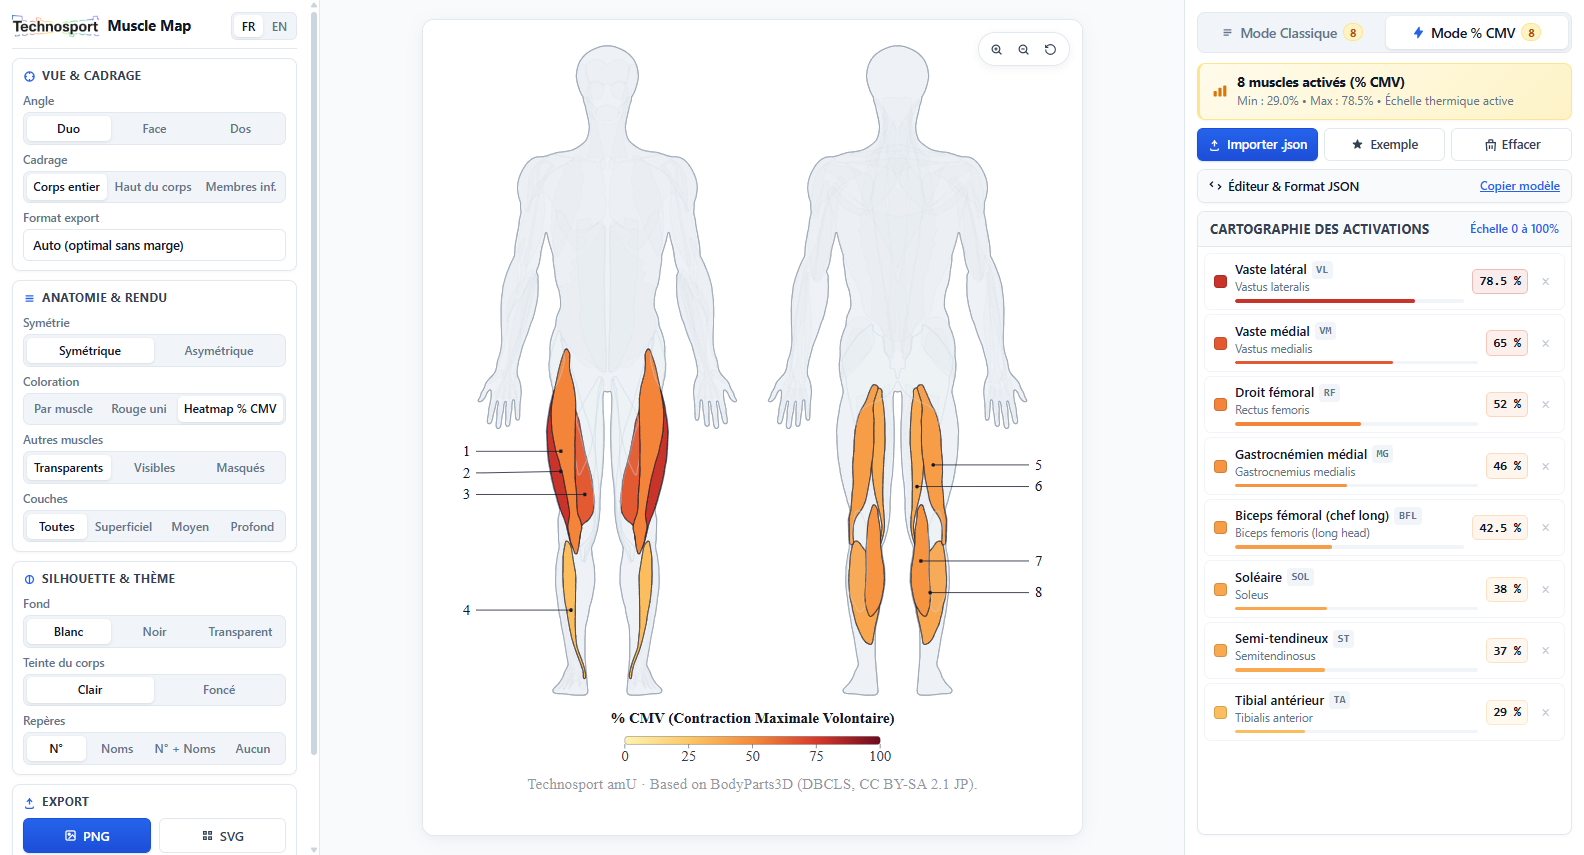
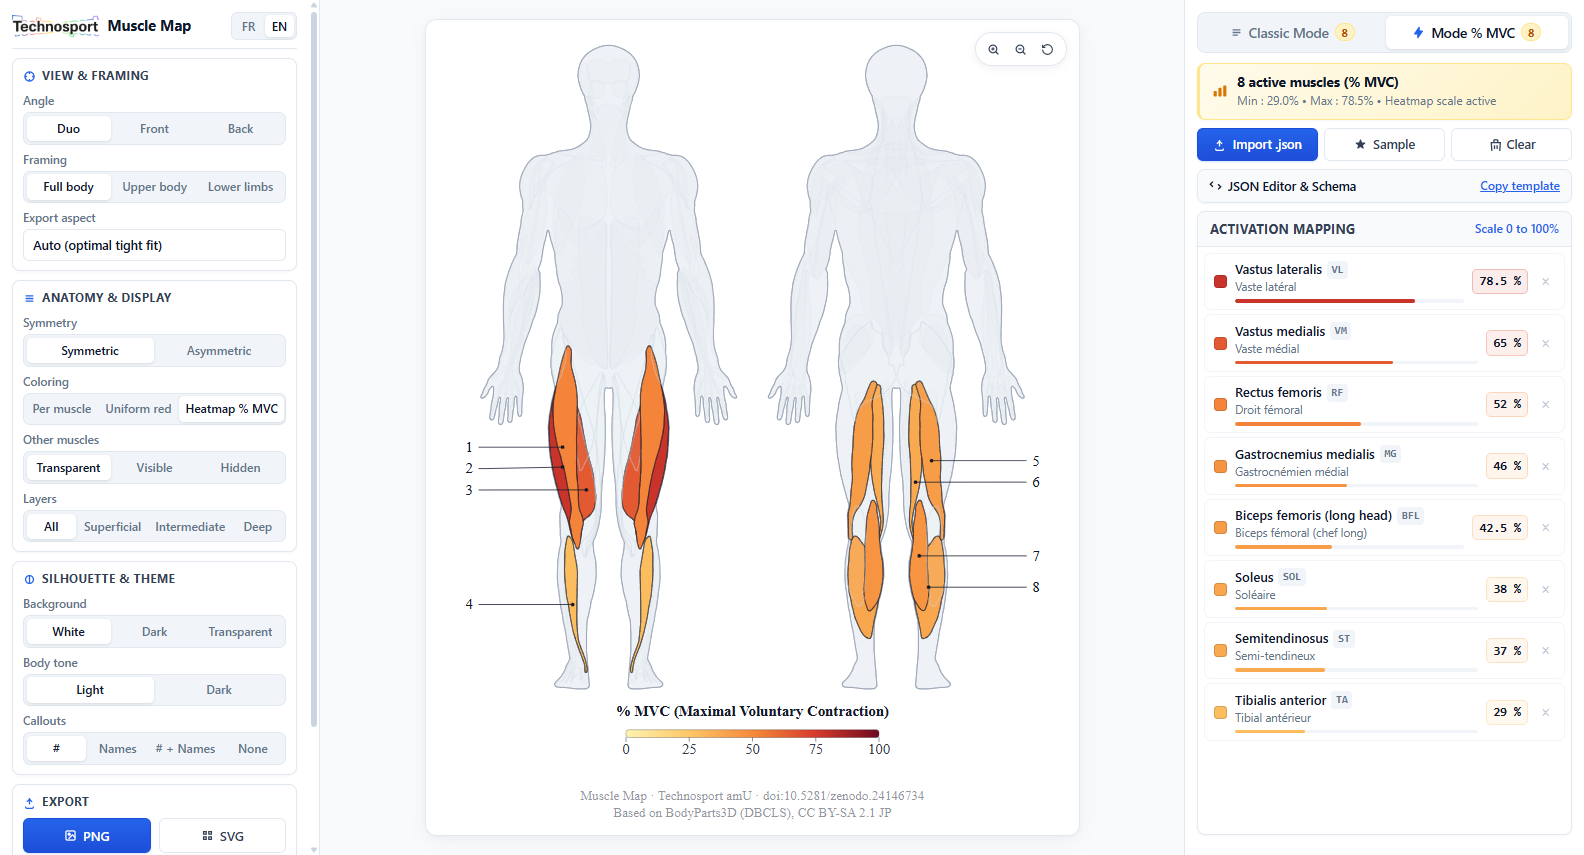
docs: streamline README, update citation info and regenerate screenshots in English

diff --git a/README.md b/README.md
@@ -23,10 +23,7 @@
 
 ### Offline / Local Usage
 1. Clone or download this repository.
-2. Double-click the standalone **`index.html`** file in any modern web browser (Chrome, Edge, Firefox, Safari).
-
-> [!NOTE]
-> The application is **100% standalone and monolithic (~1.5 MB)**: it runs completely offline with zero external dependencies, no CDN calls, no npm build step, and no local web server required.
+2. Double-click the standalone **`index.html`** file in any web browser.
 
 ---
 
@@ -39,22 +36,12 @@
 | Module / Feature | Description |
 | :--- | :--- |
 | **Protocol Mode (Classic)** | Interactive selection of 63 anatomical muscles, customizable color families or monochrome, and flexible visual callouts (Numbers, Names, or Numbers + Names). |
-| **Results Mode (% MVC Heatmap)** | Continuous dynamic thermal heatmap (0 to 100% MVC / % CMV) with adjustable color scales and real-time live activation gauges. |
+| **Results Mode (% MVC Heatmap)** | Continuous dynamic thermal heatmap (0 to 100% MVC) with adjustable color scales and real-time live activation gauges. |
 | **Views & Framings** | Anatomical angles (Dual Anterior + Posterior, Anterior only, Posterior only) and adaptive framings (Full body, Upper body, Lower limbs). |
 | **Publication Aspect Ratios** | Auto-Fit (tight bounding box without wasted margins) or standardized publication ratios (16:9, 4:3, 9:16, 3:4, 1:1). |
 | **Vector & High-Res Export** | Direct export to **vector SVG** (up to 2048 px) for Adobe Illustrator / PowerPoint / LaTeX and **high-definition PNG** (up to 4096 px) with embedded citation metadata. |
 | **JSON Import / Export** | Batch import and export of muscle activation values with automatic recognition of standard sEMG abbreviations (VL, VM, RF, BF, MG, LG, TA, GM, etc.). |
 | **Bilingual Interface (EN / FR)** | Switch the entire user interface and exported legends between English and French with a single click. |
-
-<details>
-<summary><b>Keyboard Shortcuts & Navigation Controls</b></summary>
-
-- `P` : Toggle settings configuration drawer (left).
-- `M` : Toggle muscle and activation drawer (right).
-- `Mouse Wheel` or `+` / `-` keys : Smooth continuous zoom on the anatomical board.
-- `Double-click` or `↺` button : Reset zoom level and center view.
-
-</details>
 
 <details>
 <summary><b>JSON Format for % MVC Activation Import</b></summary>
@@ -63,43 +50,30 @@ The application accepts full anatomical identifiers or standard sEMG acronyms in
 
 ```json
 {
-  "mesures": [
-    { "muscle": "vastus-lateralis", "cmv": 78.5 },
-    { "muscle": "VM", "cmv": 65.0 },
-    { "muscle": "RF", "cmv": 52.0 },
-    { "muscle": "gastrocnemius-medial", "cmv": 46.0 },
-    { "muscle": "BF", "cmv": 42.5 },
-    { "muscle": "SOL", "cmv": 38.0 },
-    { "muscle": "ST", "cmv": 37.0 },
-    { "muscle": "TA", "cmv": 29.0 }
+  "measures": [
+    { "muscle": "vastus-lateralis", "mvc": 78.5 },
+    { "muscle": "VM", "mvc": 65.0 },
+    { "muscle": "RF", "mvc": 52.0 },
+    { "muscle": "gastrocnemius-medial", "mvc": 46.0 },
+    { "muscle": "BF", "mvc": 42.5 },
+    { "muscle": "SOL", "mvc": 38.0 },
+    { "muscle": "ST", "mvc": 37.0 },
+    { "muscle": "TA", "mvc": 29.0 }
   ]
 }
 ```
 
-*(You can also use `"mvc"` instead of `"cmv"` in key names).*
+*(French keys `"mesures"` and `"cmv"` are also supported).*
 
 </details>
 
 ---
 
-## 🔧 Repository Structure
-
-| File / Folder | Purpose |
-| :--- | :--- |
-| **`index.html`** | Standalone production web application (styles, logic, vector atlas, and brand assets inlined). |
-| **`CITATION.cff`** | Citation File Format specification for automated academic citations on GitHub and Zenodo. |
-| **`LICENSE`** | MIT License for application source code. |
-| **`NOTICE.md`** | Comprehensive attribution notice, BodyParts3D origins, and figure reuse guidelines. |
-| **`docs/screenshots/`** | Official screenshots for documentation and scientific presentations. |
-| **`.github/workflows/deploy.yml`** | Automated continuous deployment workflow to GitHub Pages. |
-
----
-
 ## 📜 How to Cite & Academic License
 
-If you use Muscle Map figures or activation maps in a scientific publication, thesis, or report, please cite both this repository and the underlying anatomical database:
+If you use Muscle Map figures or activation maps in a scientific publication, thesis, or report, please cite both this tool and the underlying anatomical database:
 
-### APA Style
+### Recommended Citation (APA)
 > Panchairi, J. (2026). *Muscle Map: Interactive 2D vector anatomical atlas for surface electromyography (sEMG)* (Version 1.0.0) [Computer software]. Zenodo. https://doi.org/10.5281/zenodo.24146734
 
 ### BibTeX
@@ -114,6 +88,9 @@ If you use Muscle Map figures or activation maps in a scientific publication, th
   url          = {https://technosport.github.io/Muscle-Map/}
 }
 ```
+
+### In Figure Captions
+> *Figure X. Muscle activation map generated using Muscle Map (Technosport amU, ISM UMR 7287 CNRS / Aix-Marseille Université; doi:10.5281/zenodo.24146734), based on BodyParts3D (DBCLS, CC BY-SA 2.1 JP).*
 
 ### Anatomical Database Citation
 > Mitsuhashi, N., Fujieda, K., Tamura, T., Kawamoto, S., Takagi, T., & Okubo, K. (2009). *BodyParts3D: 3D structure database for anatomical concepts*. **Nucleic Acids Research**, 37(suppl_1), D782–D785. https://doi.org/10.1093/nar/gkn613
